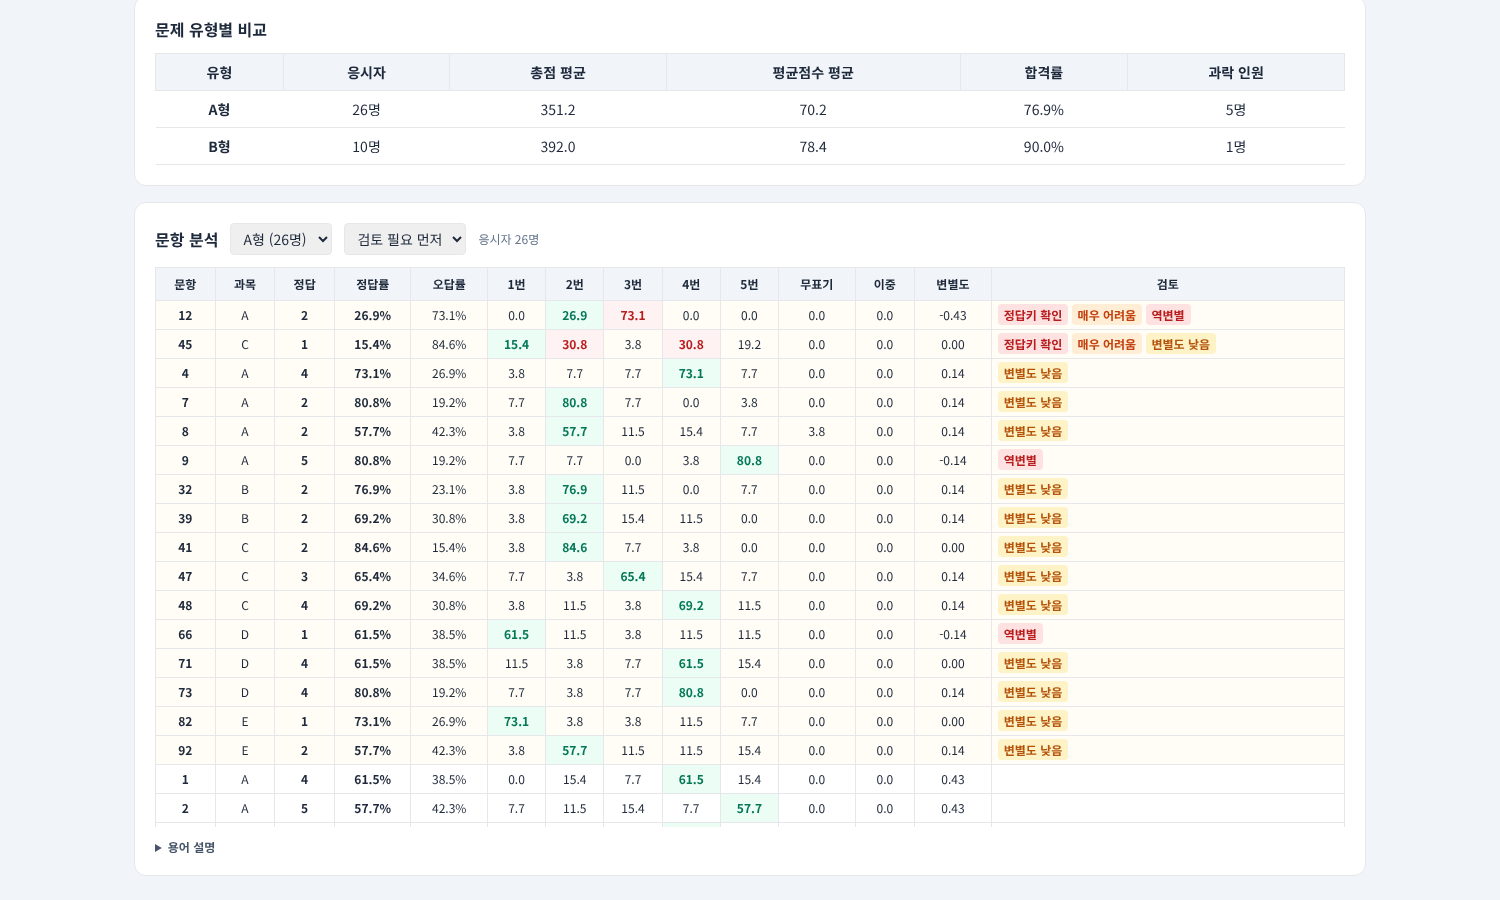
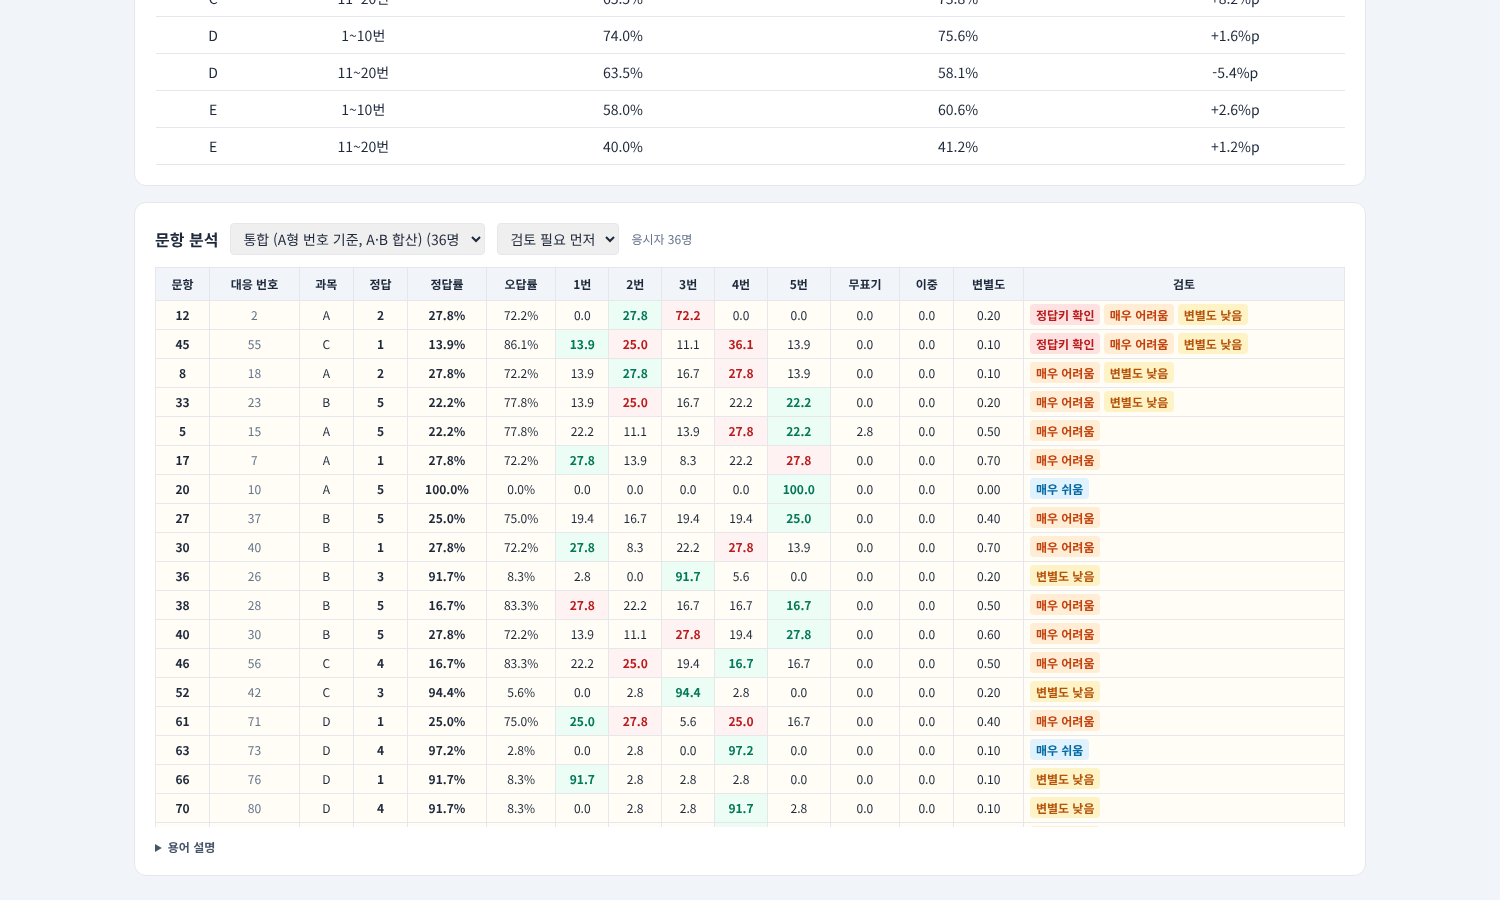
통계 화면 신뢰도 표시 정리, 통계 스크린샷 갱신
Claude-Session: https://claude.ai/code/session_012hr22dVvZo6EXXawn4x83p

diff --git a/static/index.html b/static/index.html
@@ -393,14 +393,14 @@
       if (!d.n) { box.innerHTML = '<div class="bg-white p-8 rounded-xl border text-center text-slate-500">통계를 낼 채점 결과가 없습니다.</div>'; return; }
       const sm = d.summary, tmax = d.score_per_q * 100;
       const card = (t, v, sub) => `<div class="bg-white border rounded-xl p-4"><div class="text-xs text-slate-500">${t}</div><div class="text-2xl font-bold text-blue-900 mt-1">${v}</div><div class="text-xs text-slate-500 mt-1">${sub || '&nbsp;'}</div></div>`;
-      const kr = d.forms.map(f => `${f.label} ${f.kr20 == null ? '-' : f.kr20}`).join(' / ');
+      const kr = d.forms.map(f => `${f.label.split(' ')[0]} ${f.kr20 == null ? '-' : f.kr20}`).join(' / ');
       let h = `<div class="grid grid-cols-2 md:grid-cols-4 lg:grid-cols-6 gap-3">
         ${card('응시자', sm.n + '명', `검수필요 ${sm.review}건`)}
         ${card('합격률', f1(sm.pass_rate) + '%', `합격 ${sm.pass} · 불합격 ${sm.fail} · 과락 ${sm.cut}`)}
         ${card('과락률', f1(sm.cut_rate) + '%', `${sm.cut}명`)}
         ${card('평균점수 평균', f1(sm.avg_mean), `중앙값 ${f1(sm.avg_median)} · 표준편차 ${f1(sm.avg_sd)}`)}
         ${card('총점 평균', f1(sm.total_mean), `${tmax}점 만점 · 최고 ${sm.total_max} / 최저 ${sm.total_min}`)}
-        ${card('신뢰도 (KR-20)', kr || '-', d.forms.some(f => f.kr20 != null) ? '1에 가까울수록 일관된 시험' : `유형별 ${d.min_n_item}명 이상부터 계산`)}
+        ${card('신뢰도 (KR-20)', `<span class="text-base">${kr || '-'}</span>`, d.forms.some(f => f.kr20 != null) ? '1에 가까울수록 일관된 시험' : `유형별 ${d.min_n_item}명 이상부터 계산`)}
       </div>`;
       // 분포
       const mx = Math.max(...d.distribution.map(x => x.count), 1);
